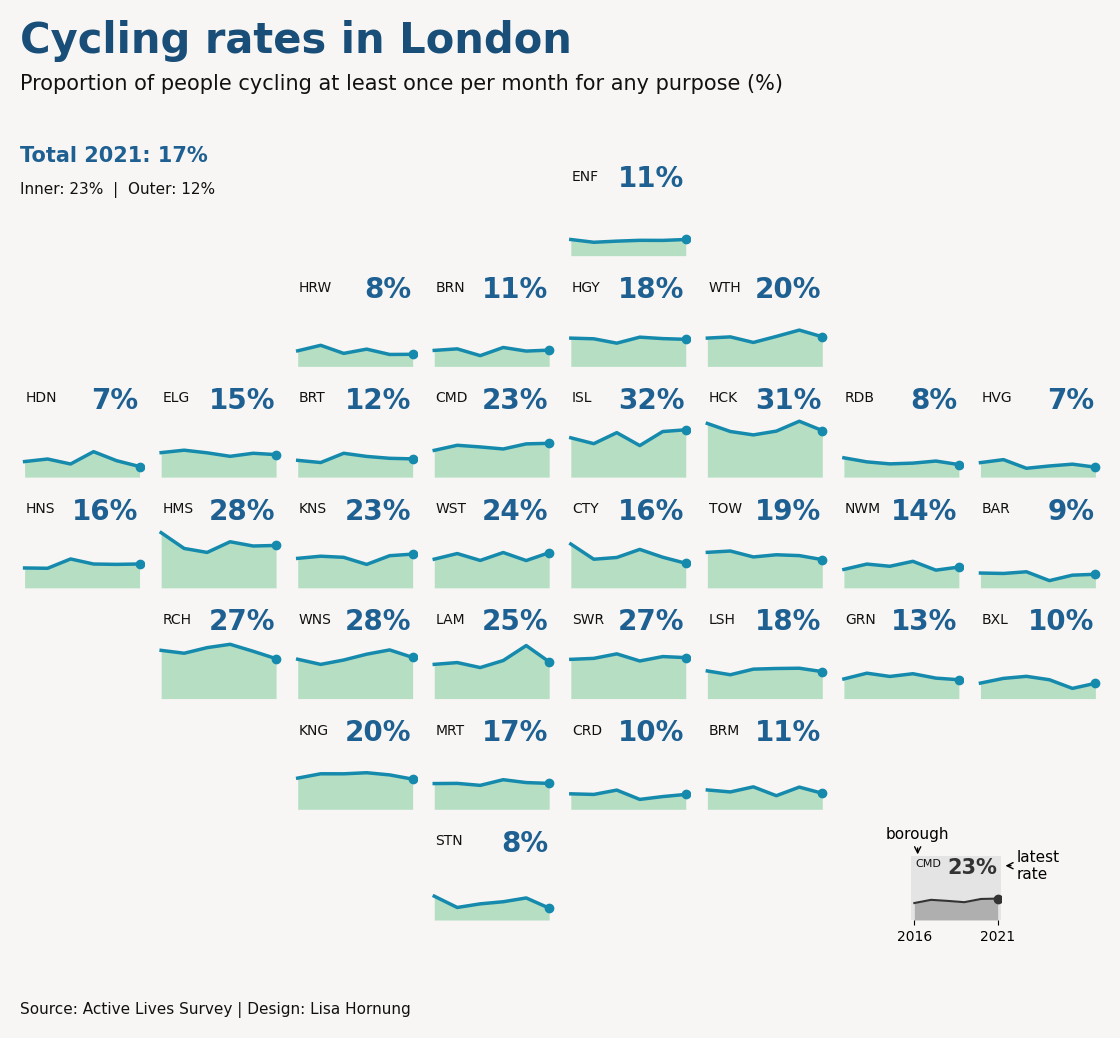
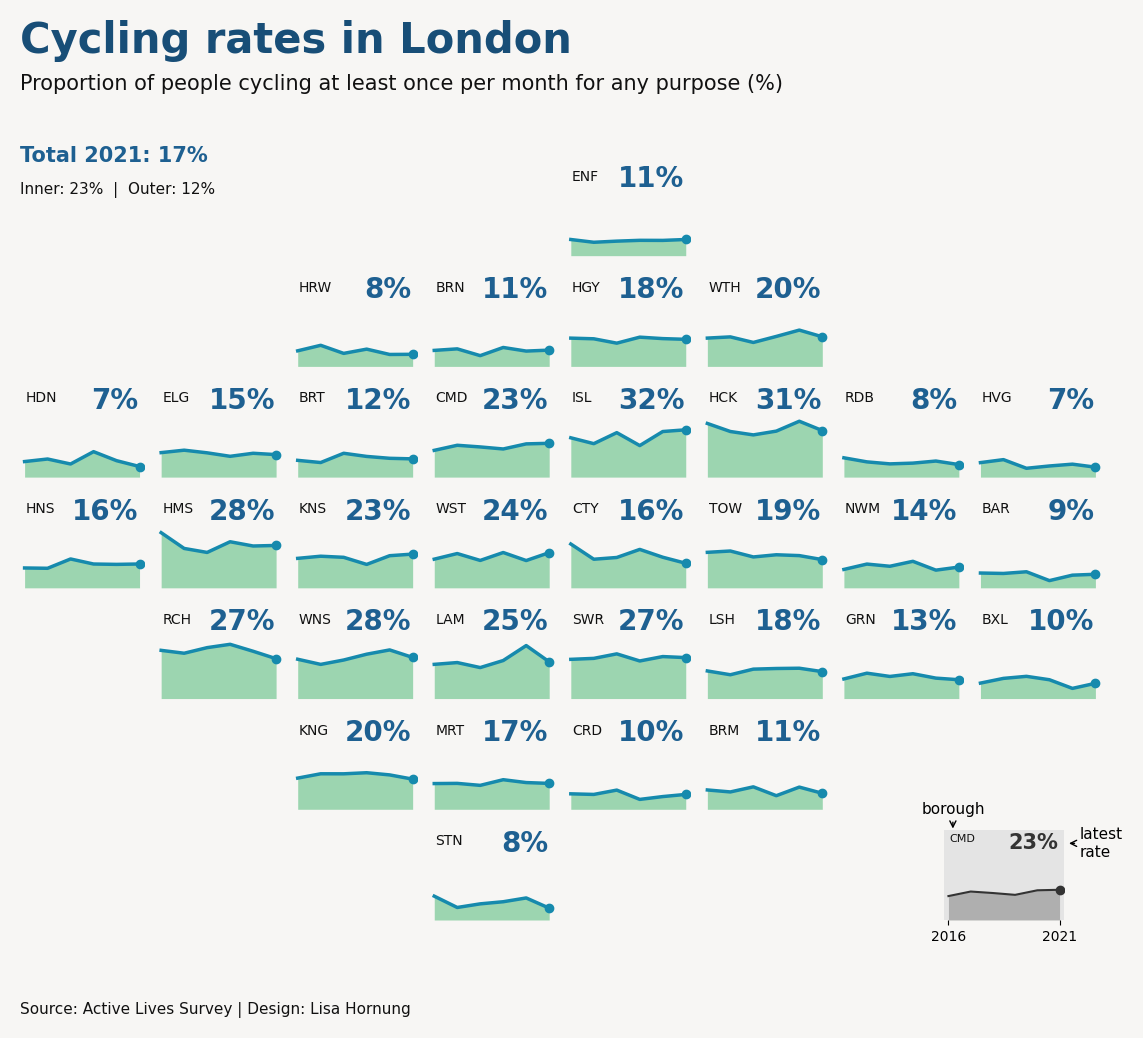
changed method for creating grid layout ++ cleaned up code

diff --git a/app.py b/app.py
@@ -26,12 +26,6 @@ def load_data():
 df = load_data()
 
 # Dictionaries
-pos_dict = {'E09000001': 29,  'E09000002': 32, 'E09000003': 12, 'E09000004': 40,  'E09000005': 19, 'E09000006': 46,
-           'E09000007': 20, 'E09000008': 45,  'E09000009': 18,  'E09000010': 5,  'E09000011': 39,  'E09000012': 22,
-           'E09000013': 26,  'E09000014': 13,  'E09000015': 11,  'E09000016': 24, 'E09000017': 17,  'E09000018': 25,
-           'E09000019': 21,  'E09000020': 27,  'E09000021': 43, 'E09000022': 36,  'E09000023': 38,  'E09000024': 44,
-           'E09000025': 31,  'E09000026': 23,  'E09000027': 34,  'E09000028': 37,  'E09000029': 52,  'E09000030': 30,
-           'E09000031': 14,  'E09000032': 35,  'E09000033': 28}
 display_dict = {'E09000007': 'CMD', 'E09000001': 'CTY', 'E09000012': 'HCK', 'E09000013': 'HMS', 'E09000014': 'HGY',
              'E09000019': 'ISL', 'E09000020': 'KNS', 'E09000022': 'LAM', 'E09000023': 'LSH', 'E09000025': 'NWM',
              'E09000028': 'SWR', 'E09000030': 'TOW', 'E09000032': 'WNS', 'E09000033': 'WST', 'E09000002': 'BAR',
@@ -81,28 +75,26 @@ st.write("")
 
 ## Plotting
 #filter data set based on input
-data = df[(df["ONS Code"].isin(pos_dict.keys())) & (df["Frequency"] == frequency) & 
+data = df[(df["ONS Code"].isin(display_dict.keys())) & (df["Frequency"] == frequency) & 
         (df["Purpose"]==purpose)].reset_index()
 data["Display name"] = data["ONS Code"].map(display_dict)
-data["pos"] = data["ONS Code"].map(pos_dict)
 
 # ========= Layout
 # Initialise Figure and define layout
 #8,7 | 10, 8.75
-fig,ax = plt.subplots(7,8,figsize=(12,9), sharey=True)
+layout = [
+        ["___","___","___","___","ENF","___","___","___"],
+        ["___","___","HRW","BRN","HGY","WTH","___","___"],
+        ["HDN","ELG","BRT","CMD","ISL","HCK","RDB","HVG"],
+        ["HNS","HMS","KNS","WST","CTY","TOW","NWM","BAR"],
+        ["___","RCH","WNS","LAM","SWR","LSH","GRN","BXL"],
+        ["___","___","KNG","MRT","CRD","BRM","___","___"],
+        ["___","___","___","STN","___","___","___","___"],
+        ]
+fig,axs = plt.subplot_mosaic(layout, figsize=(12,9), empty_sentinel="___") 
 
 fig.set_facecolor(clr_background)
 plt.subplots_adjust(wspace=0.1, hspace=0.1, left=0.05, right=0.95, bottom=0.05, top=0.9)
-
-#Format grid layout - remove frame + axis labels
-for a in ax:
-    for i in a:
-        i.get_xaxis().set_visible(False)
-        i.get_yaxis().set_visible(False)
-        i.set_ylim(ymax=60, ymin=0)   
-        i.axis('off')
-        for pos in ["top", "bottom", "right", "left"]:
-            i.spines[pos].set_visible(False)
 
 #=========== Plotting
 # plotting boroughs
@@ -111,51 +103,51 @@ x_values = [1,2,3,4,5,6]
 height = max(data[y_values].max()) + 30
 
 ## Loop through all boroughs and map their values
-for i in range(len(data)):
-    plt.subplot(7,8,data["pos"][i])
-    
+for ax in axs:
+    data_filtered = data[data["Display name"]==ax]
+        
     #display name of borough
-    plt.text(1.05, height-10, data["Display name"][i], fontsize=10, ha="left", va='top', color="#111111")
+    axs[ax].text(1.05, height-10, ax, fontsize=10, ha="left", va='top', color="#111111")
     
     #plot area chart
-    plt.fill_between(x_values,list(data.loc[i][y_values].values), zorder=1,color=clr_area, alpha=alpha_area,linewidth=0)    
-    plt.plot(x_values,list(data.loc[i][y_values].values), zorder=2, 
+    axs[ax].fill_between(x_values, list(data_filtered[y_values].values[0]), zorder=1, color=clr_area, alpha=0.7,
+                    linewidth=0)   
+    axs[ax].plot(x_values, list(data_filtered[y_values].values[0]), zorder=2, 
              color=clr_line,linewidth=2.5)    
     
     #plot last value dot
-    plt.scatter(max(x_values),list(data.loc[i][y_values].values)[-1], zorder=3,color=clr_line)
+    axs[ax].scatter(max(x_values), list(data_filtered[y_values].values[0])[-1], zorder=3,color=clr_line)
     
     #display most recent % value
-    plt.text(max(x_values)-0.05, height-7, '{:,.0f}%'.format(list(data.loc[i][y_values].values)[-1]), 
+    axs[ax].text(max(x_values)-0.05, height-7, '{:,.0f}%'.format(list(data_filtered[y_values].values[0])[-1]), 
              ha="right", fontsize=20, fontweight='bold', va='top', color=clr_value)
     
     #set background colour
-    plt.gca().set_xlim(xmin=0.8, xmax=6.2)
-    plt.gca().set_ylim(ymax=height, ymin=0) 
-    plt.gca().set_facecolor(clr_background)
-    for pos in ["top", "bottom", "right", "left"]:
-         plt.gca().spines[pos].set_visible(False)
+    axs[ax].set_xlim(xmin=0.8, xmax=6.2)
+    axs[ax].set_ylim(ymax=height, ymin=0) 
+    axs[ax].set_facecolor(clr_background)    
+    axs[ax].axis("off")
 
 #============= Legend           
 #add legend
-plt.subplot(11,11,120)
-plt.text(1.05,height-3,data["Display name"][0], fontsize=8, ha="left", va='top', color="#111111")
-plt.fill_between(x_values,list(data.loc[0][y_values].values), zorder=1,color="#999999", alpha=0.7,linewidth=0)    
-plt.plot(x_values,list(data.loc[0][y_values].values), zorder=2,color="#333333",linewidth=1.5)    
-plt.scatter(max(x_values),list(data.loc[0][y_values].values)[-1], zorder=3,color="#333333")
-plt.text(max(x_values)-0.05, height-2, '{:,.0f}%'.format(list(data.loc[0][y_values].values)[-1]), 
-         ha="right", fontsize=15, fontweight='bold', va='top', color="#333333")
-plt.gca().set_xlim(xmin=0.8, xmax=6.2)
-plt.gca().set_ylim(ymax=height, ymin=0) 
-plt.gca().set_facecolor("#E4E4E4")
+lgd = fig.add_axes([0.82, 0.05, 0.1, 0.1]) #axes to hold legend
+lgd.text(1.05,height-3,data["Display name"][0], fontsize=8, ha="left", va='top', color="#111111")
+lgd.fill_between(x_values,list(data.loc[0][y_values].values), zorder=1,color="#999999", alpha=0.7,linewidth=0)    
+lgd.plot(x_values,list(data.loc[0][y_values].values), zorder=2,color="#333333",linewidth=1.5)    
+lgd.scatter(max(x_values),list(data.loc[0][y_values].values)[-1], zorder=3,color="#333333")
+lgd.text(max(x_values)-0.05, height-2, '{:,.0f}%'.format(list(data.loc[0][y_values].values)[-1]), 
+        ha="right", fontsize=15, fontweight='bold', va='top', color="#333333")
+lgd.set_xlim(xmin=0.8, xmax=6.2)
+lgd.set_ylim(ymax=height, ymin=0) 
+lgd.set_facecolor("#E4E4E4")
 for pos in ["top", "bottom", "right", "left"]:
-    plt.gca().spines[pos].set_visible(False)
-plt.gca().set_xticks([1,6], ["2016", "2021"],fontsize = 10)
-plt.gca().set_yticks([])
-plt.gca().annotate('latest\nrate', xy=(max(x_values)+0.3, height-10), xycoords='data', xytext=(10, 0), textcoords='offset points', 
+    lgd.spines[pos].set_visible(False)
+lgd.set_xticks([1,6], ["2016", "2021"],fontsize = 10)
+lgd.set_yticks([])
+lgd.annotate('latest\nrate', xy=(max(x_values)+0.3, height-10), xycoords='data', xytext=(10, 0), textcoords='offset points', 
                    fontsize=11, ha='left', va='center', annotation_clip=False,
                     arrowprops=dict(arrowstyle="->",facecolor='black'))
-plt.gca().annotate('borough', xy=(min(x_values)+0.2, height-1), xycoords='data', xytext=(0, 16), textcoords='offset points', 
+lgd.annotate('borough', xy=(min(x_values)+0.2, height-1), xycoords='data', xytext=(0, 16), textcoords='offset points', 
                    fontsize=11, ha='center', va='center', annotation_clip=False,
                     arrowprops=dict(arrowstyle="->",facecolor='black'))
 
